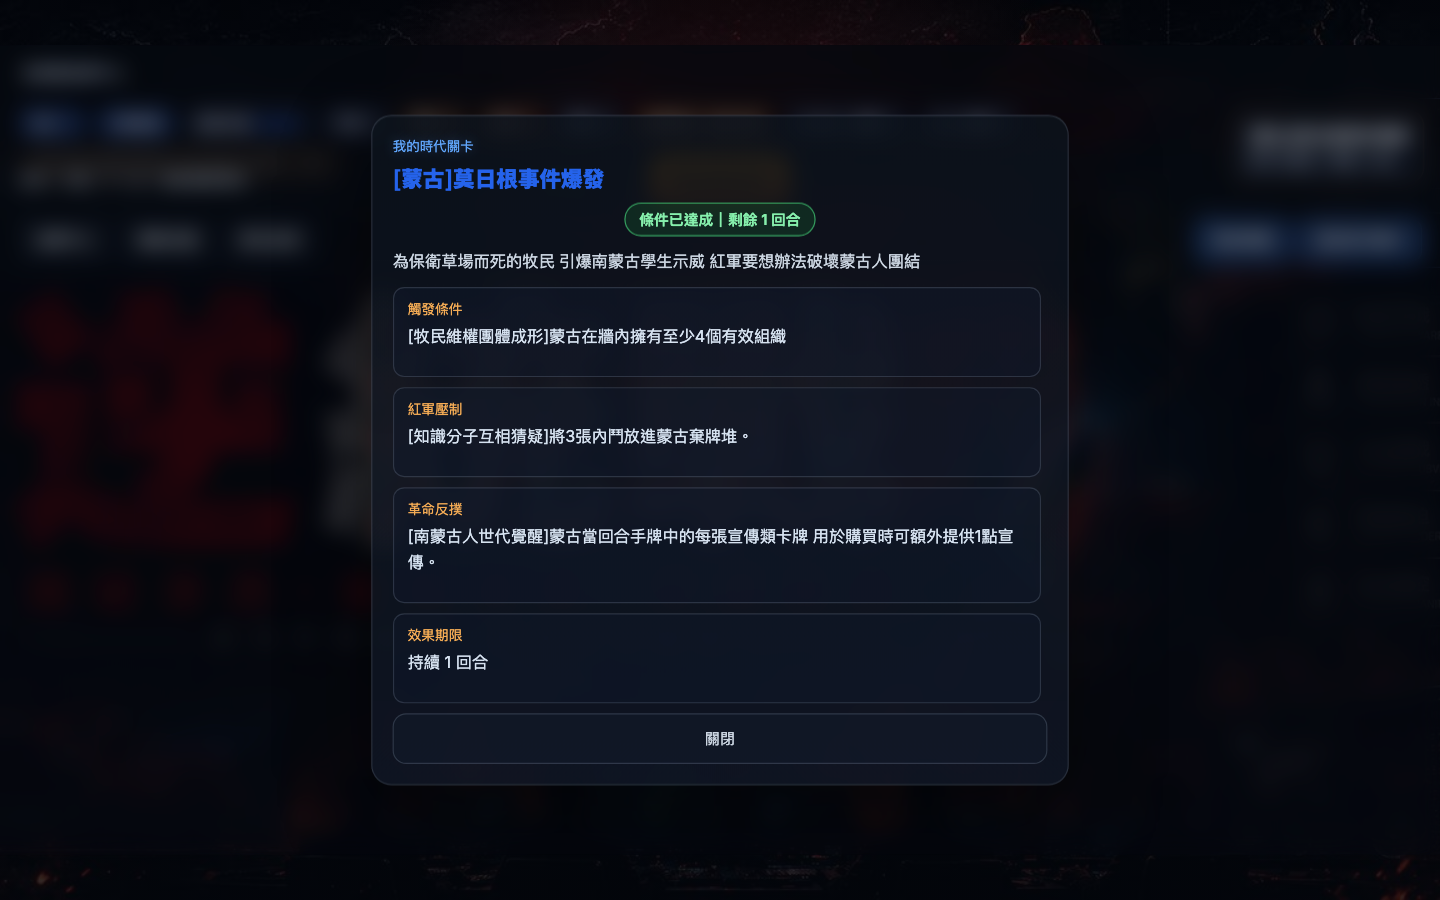
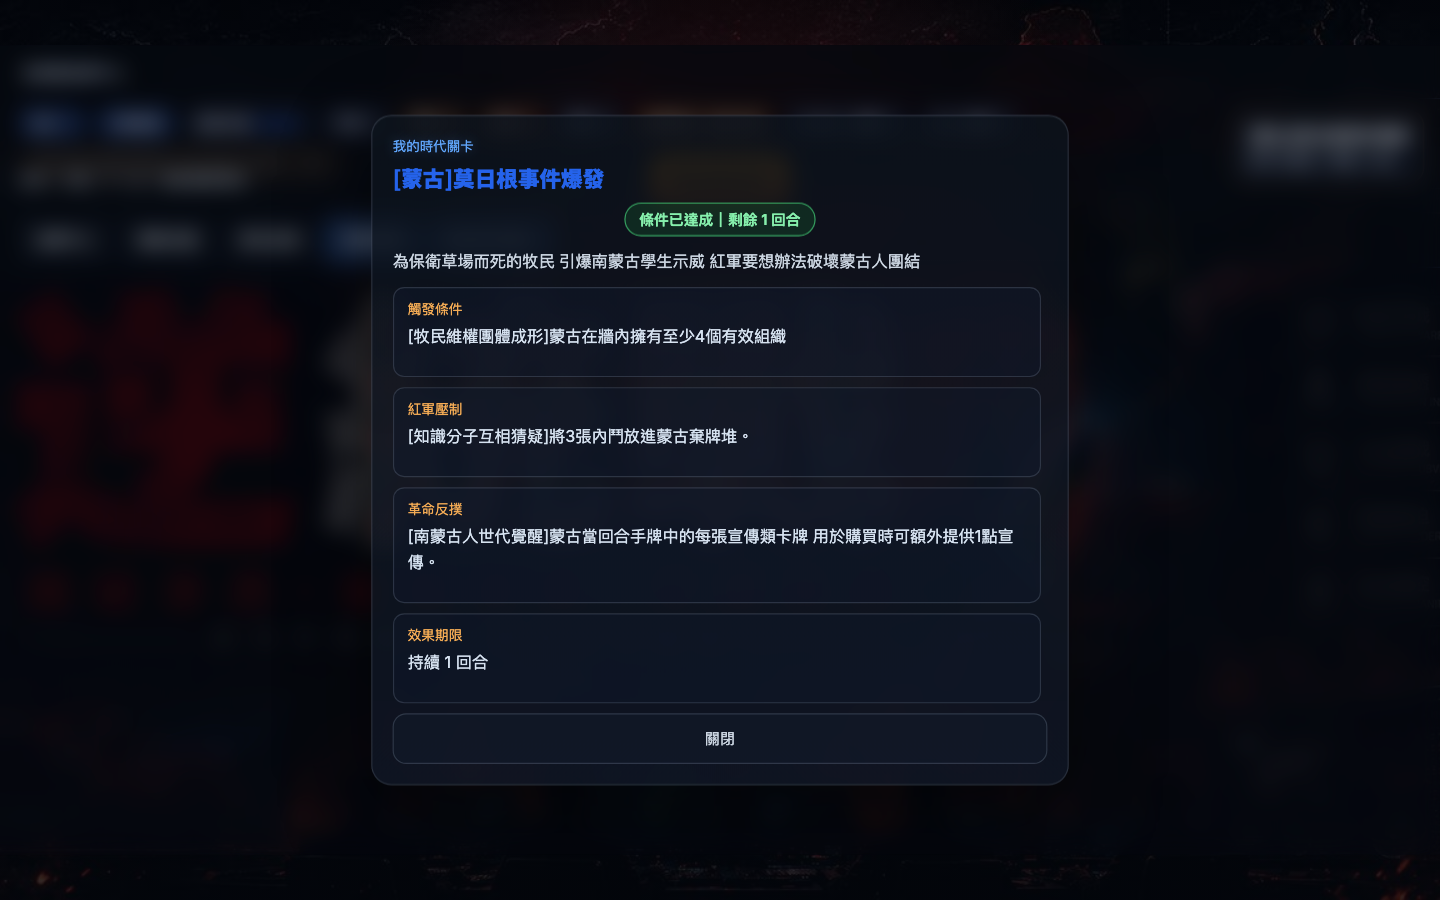
fix: keep personal info tabs beside battle log

Changed region(s): [[0.8125, 0.2178, 1.0, 0.3111], [0.2188, 0.2178, 0.2812, 0.3111]]

diff --git a/static/style.css b/static/style.css
@@ -2424,7 +2424,6 @@ body {
 
 /* 我的陣營 modal（2026-07-19） */
 .my-faction-tab {
-  margin-left: auto;
   border-color: rgba(246, 173, 85, 0.5);
 }
 

diff --git a/scripts/validate_my_era_stage_view.py b/scripts/validate_my_era_stage_view.py
@@ -12,6 +12,7 @@ OUT_JSON = RECORD_DIR / "MY_ERA_STAGE_VIEW_VALIDATION.json"
 OUT_MD = RECORD_DIR / "MY_ERA_STAGE_VIEW_VALIDATION.md"
 PENDING_SCREENSHOT = RECORD_DIR / "my_era_stage_pending.png"
 ACTIVE_SCREENSHOT = RECORD_DIR / "my_era_stage_active.png"
+POSITION_SCREENSHOT = RECORD_DIR / "my_era_stage_entry_position.png"
 
 
 def post_json(path, payload=None):
@@ -37,6 +38,7 @@ def open_game(browser, setup):
       const factionClose = document.getElementById('closeFactionActionModal');
       if (factionClose) factionClose.click();
       if (typeof minimizeEraAchievement === 'function') minimizeEraAchievement();
+      if (typeof closeEventReveal === 'function') closeEventReveal();
     }""")
     page.wait_for_timeout(200)
     return context, page
@@ -60,6 +62,38 @@ def check(browser):
         button.is_visible() and button.inner_text() == "我的時代關卡",
         {"visible": button.is_visible(), "text": button.inner_text()},
     )
+    position_data = pending_page.evaluate("""() => {
+      const rect = selector => document.querySelector(selector)?.getBoundingClientRect();
+      const log = rect('#gameTabs [data-view="log"]');
+      const faction = rect('#myFactionBtn');
+      const era = rect('#myEraStageBtn');
+      const eventPanel = document.querySelector('.event-card-panel');
+      const previousEventDisplay = eventPanel?.style.display;
+      if (eventPanel) eventPanel.style.display = 'block';
+      const event = eventPanel?.getBoundingClientRect();
+      if (eventPanel) eventPanel.style.display = previousEventDisplay;
+      return {
+        logRight: log?.right,
+        factionLeft: faction?.left,
+        factionRight: faction?.right,
+        eraLeft: era?.left,
+        eraRight: era?.right,
+        eventLeft: event?.left,
+        gapAfterLog: faction && log ? faction.left - log.right : null,
+        gapBetweenPersonalTabs: era && faction ? era.left - faction.right : null,
+        noEventOverlap: !!(era && event && era.right < event.left),
+      };
+    }""")
+    record(
+        "personal_info_tabs_sit_next_to_log_without_event_card_overlap",
+        position_data["gapAfterLog"] is not None
+        and 0 <= position_data["gapAfterLog"] <= 16
+        and position_data["gapBetweenPersonalTabs"] is not None
+        and 0 <= position_data["gapBetweenPersonalTabs"] <= 16
+        and position_data["noEventOverlap"],
+        position_data,
+    )
+    pending_page.screenshot(path=str(POSITION_SCREENSHOT), full_page=True)
     faction_button = pending_page.locator("#myFactionBtn")
     faction_button.click()
     pending_page.wait_for_timeout(150)
@@ -155,7 +189,7 @@ def check(browser):
             "failed": sum(1 for result in results if not result["ok"]),
         },
         "results": results,
-        "screenshots": [str(PENDING_SCREENSHOT), str(ACTIVE_SCREENSHOT)],
+        "screenshots": [str(POSITION_SCREENSHOT), str(PENDING_SCREENSHOT), str(ACTIVE_SCREENSHOT)],
         "base_url": BASE_URL,
     }
 

diff --git a/TODO.md b/TODO.md
@@ -258,8 +258,8 @@
   - 驗證：新增 `python3 scripts/validate_my_faction_modal.py`（5/5，連跑 3 次穩定：按鈕在遊戲畫面可見、點開後標題染陣營色且四區塊皆有內容、根據地區塊顯示實際根據地、關閉按鈕可收起、換一個資料結構不同的陣營〔香港〕同樣正確渲染）；proof `docs/records/playtest-flow/MY_FACTION_MODAL_VALIDATION.{json,md}` + `my_faction_modal.png`／`my_faction_modal_hong_kong.png`。
 
 - [done] 遊戲畫面「我的時代關卡」入口（2026-07-26 使用者需求）：讓玩家在關卡達成前後都能隨時查看自己的時代關卡，不再只有達成當下的全桌通知。
-  - 實作：`#gameTabs` 在「我的陣營」旁新增「我的時代關卡」按鈕與文字 modal；後端依 WebSocket viewer 的陣營大類只投影 `my_era_stage`，內容包含簡述、觸發條件、紅軍壓制、革命反撲、效果期限與目前是否達成／剩餘回合。紅軍沒有個人時代關卡，入口會明確說明，不會誤配其他陣營資料。
-  - 驗證：`uv run --with playwright python scripts/validate_my_era_stage_view.py`（6/6：入口可見、相鄰「我的陣營」入口回歸、臺灣未達成關卡全文、關閉、蒙古已達成與剩餘回合、紅軍無個人關卡提示）；proof `docs/records/event-cards/MY_ERA_STAGE_VIEW_VALIDATION.{json,md}` + `my_era_stage_pending.png`／`my_era_stage_active.png`。
+  - 實作：`#gameTabs` 在「戰況紀錄」右側依序新增「我的陣營」與「我的時代關卡」按鈕（不再用 `margin-left:auto` 推到事件卡所在的最右側）及文字 modal；後端依 WebSocket viewer 的陣營大類只投影 `my_era_stage`，內容包含簡述、觸發條件、紅軍壓制、革命反撲、效果期限與目前是否達成／剩餘回合。紅軍沒有個人時代關卡，入口會明確說明，不會誤配其他陣營資料。
+  - 驗證：`uv run --with playwright python scripts/validate_my_era_stage_view.py`（7/7：入口可見、兩個個人資訊按鈕緊鄰戰況紀錄且不與事件卡重疊、相鄰「我的陣營」入口回歸、臺灣未達成關卡全文、關閉、蒙古已達成與剩餘回合、紅軍無個人關卡提示）；proof `docs/records/event-cards/MY_ERA_STAGE_VIEW_VALIDATION.{json,md}` + `my_era_stage_entry_position.png`／`my_era_stage_pending.png`／`my_era_stage_active.png`。
 
 ### P2：repo hygiene / validator hygiene
 - [todo] 維持 root record-like count = 0。

diff --git a/docs/records/event-cards/MY_ERA_STAGE_VIEW_VALIDATION.md b/docs/records/event-cards/MY_ERA_STAGE_VIEW_VALIDATION.md
@@ -2,12 +2,13 @@
 
 可重跑指令：`uv run --with playwright python scripts/validate_my_era_stage_view.py`
 
-- total: 6 / passed: 6 / failed: 0
-- base URL: http://127.0.0.1:8012
-- screenshots: /Users/benmini/.openclaw/workspace/redline/docs/records/event-cards/my_era_stage_pending.png, /Users/benmini/.openclaw/workspace/redline/docs/records/event-cards/my_era_stage_active.png
+- total: 7 / passed: 7 / failed: 0
+- base URL: http://127.0.0.1:8000
+- screenshots: /Users/benmini/.openclaw/workspace/redline/docs/records/event-cards/my_era_stage_entry_position.png, /Users/benmini/.openclaw/workspace/redline/docs/records/event-cards/my_era_stage_pending.png, /Users/benmini/.openclaw/workspace/redline/docs/records/event-cards/my_era_stage_active.png
 
 ## Results
 - ✅ `my_era_stage_button_visible_in_game_tabs` — {"visible": true, "text": "我的時代關卡"}
+- ✅ `personal_info_tabs_sit_next_to_log_without_event_card_overlap` — {"logRight": 317.232421875, "factionLeft": 326.232421875, "factionRight": 419.9765625, "eraLeft": 428.9765625, "eraRight": 552.708984375, "eventLeft": 1075.5, "gapAfterLog": 9, "gapBetweenPersonalTabs": 9, "noEventOverlap": true}
 - ✅ `adjacent_my_faction_entry_still_works` — {"button_visible": true, "modal_visible": true}
 - ✅ `pending_taiwan_stage_shows_complete_text_card` — {"modalVisible": true, "title": "[臺灣]綏靖派反對介入對岸", "status": "尚未達成", "summary": "臺灣對共和國滲透日深 紅軍策動臺灣綏靖派阻礙反共工作", "sections": ["觸發條件", "紅軍壓制", "革命反撲", "效果期限"], "texts": ["[臺灣重建敵後工作]臺灣在牆內擁有至少7個有效組織", "[鼓吹停止挑釁紅軍]將3張內鬥放進臺灣棄牌堆", "[打擊國內綏靖主義]每當臺灣在臺灣城鎮建立至少1個組織時，獲得1點宣傳。持續2回合。", "持續 2 回合"], "imageCount": 0}
 - ✅ `close_button_hides_my_era_stage_modal` — {"display": "none"}
